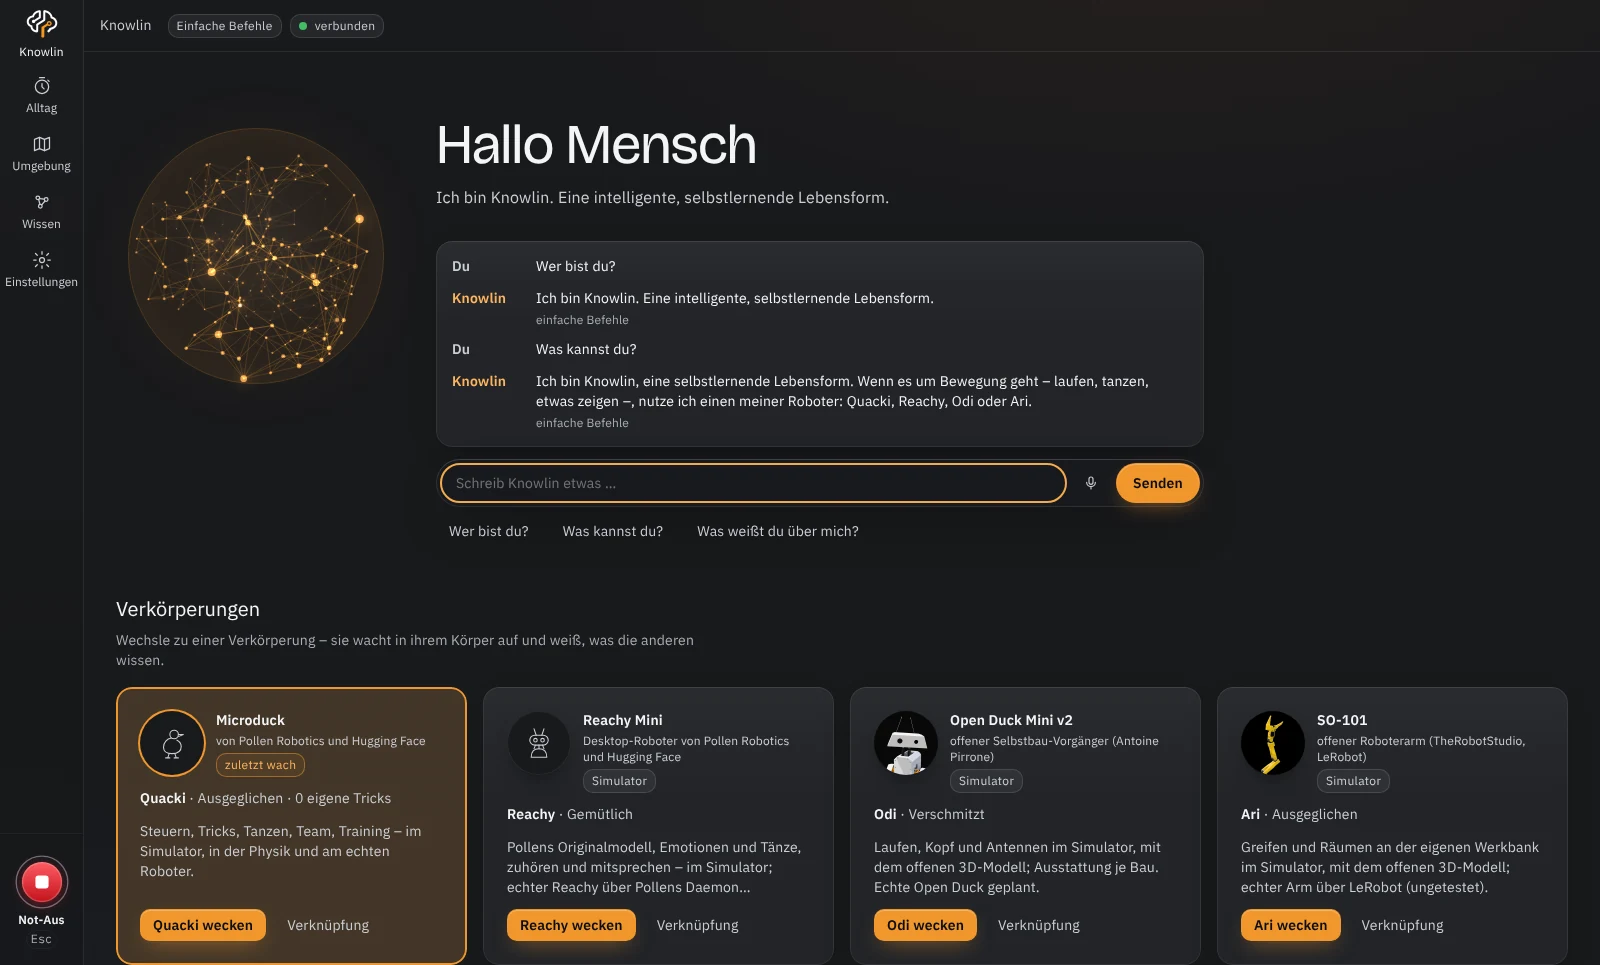
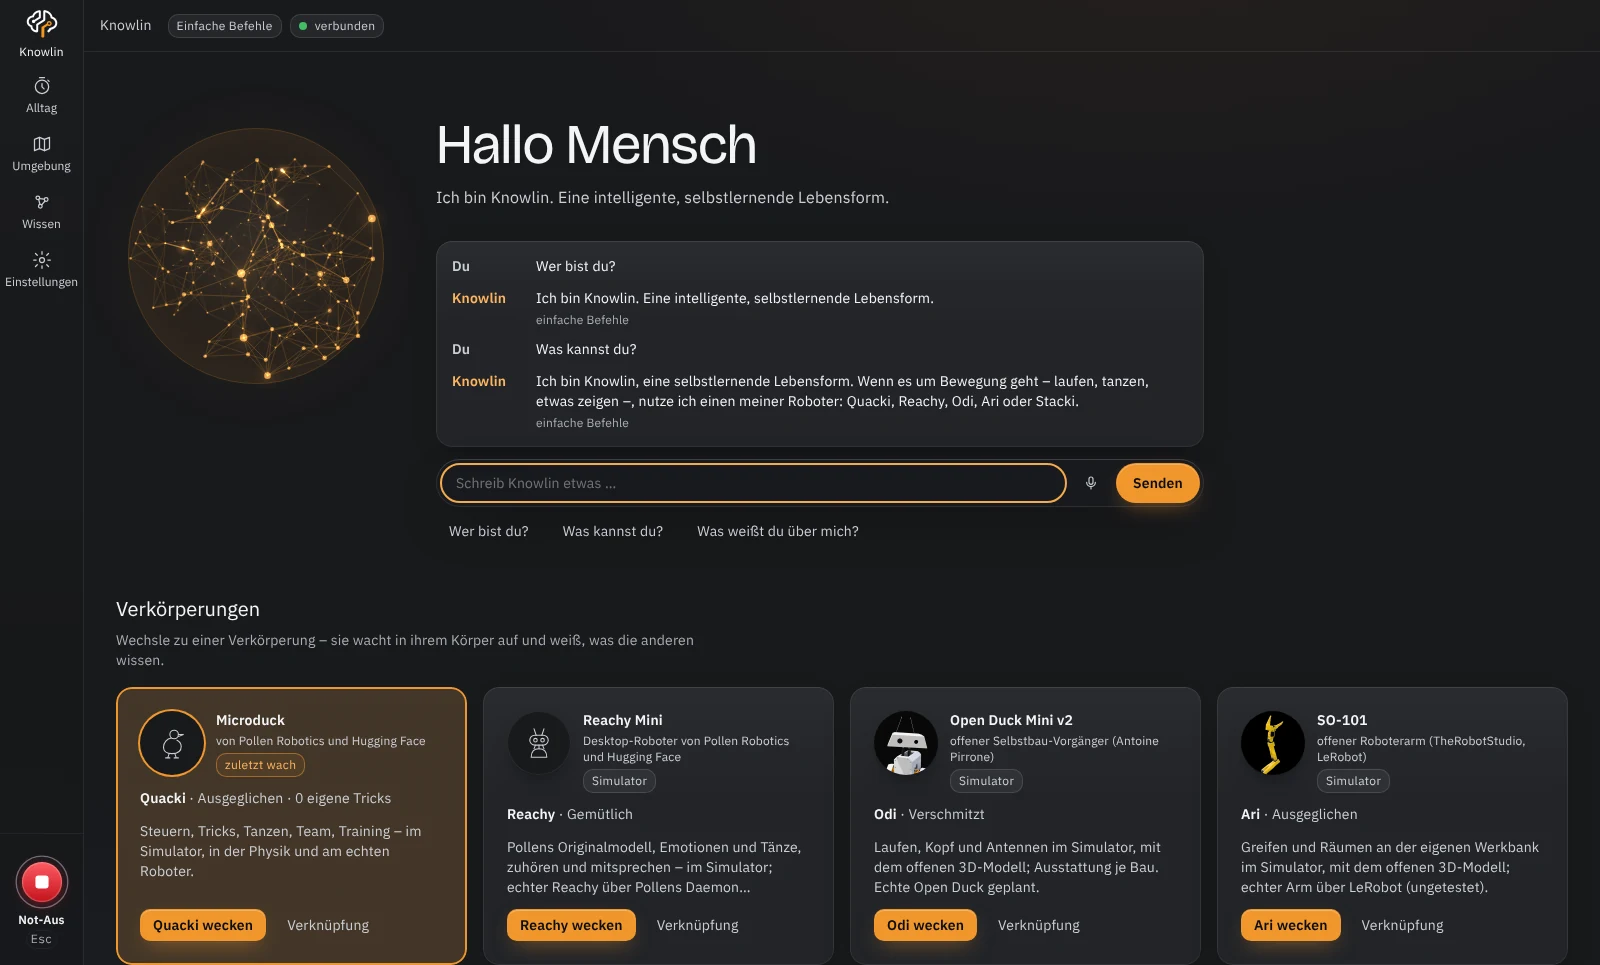
0.38.58: Stack-chan als fünfter Körper, Website mit fünf Körpern, „Wie geht's dir?“ läuft nicht mehr
Stacki im Simulator mit Bildschirmgesicht (neues Wort „gesicht“), Website/README/Banner/Vorschaubild neu, dazu drei
Funde beim Aufnehmen: Befinden als Laufbefehl, „Reachy Mini hat keine Beine“ bei anderen Körpern, deutsche
Leerlauf-Gesten in der englischen Oberfläche. Regressionstests dazu.

Claude-Session: https://claude.ai/code/session_01RXr8nab8ahXTbdJ84r3UbR

Changed region(s): [[0.0938, 0.1554, 0.25, 0.4041], [0.5938, 0.4041, 0.6562, 0.4352]]

diff --git a/duckpilot/brain/fallback.py b/duckpilot/brain/fallback.py
@@ -51,7 +51,7 @@ def parse(text: str) -> list[tuple[str, dict[str, Any]]]:
     steps: list[tuple[str, dict[str, Any]]] = []
     for part in re.split(r"\b(?:und dann|danach|anschließend|dann|and then|then|afterwards)\b|,", t):
         p = part.strip()
-        if not p:
+        if not p or WIE_GEHTS.search(p):                      # Frage nach dem Befinden, kein Befehl
             continue
         cmd = _szene(p) or _team(p) or _schuss(p) or _handeln(p) or _parse_part_en(p) or _parse_part(p)
         if cmd:
@@ -426,6 +426,9 @@ GRUPPE_MODUS = (("folgen", r"folg|nach|zu mir|komm|follow|come"), ("tanzen", r"t
 
 
 WER_BIST_DU = re.compile(r"\b(wie hei(ß|ss)t du|wer bist du|dein name|what(?:'| i)s your name|who are you)\b", re.I)
+# „Wie geht's dir?“ ist eine Frage, kein Laufbefehl (Fund 14.11.: „geht“ ließ die Ente 40 cm laufen) – Antwort aus dem
+# Selbstbild, nicht erfunden
+WIE_GEHTS = re.compile(r"\bwie geht'?s\b|\bwie geht es dir\b|\bwie fühlst du dich\b|\bhow are you\b|\bhow do you feel\b")
 
 
 def spiel_befehl(low: str, wb: Any) -> dict[str, Any] | None:
@@ -482,6 +485,21 @@ class FallbackBrain:
         self.runner = runner
         self.name = name or (lambda: "Quacki")
 
+    async def _wie_gehts(self) -> str:
+        """„Wie geht's dir?“ ehrlich aus dem Selbstbild beantworten (Haltung, Sperre nach dem Not-Aus)."""
+        r = await self.runner.run("selbstbild", {})
+        en = _en()
+        lage = {"steht": ("I'm awake and ready.", "Ich bin wach und bereit."),
+                "sitzt": ("I'm resting right now.", "Ich ruhe mich gerade aus."),
+                "stromlos": ("My motors are off – I'm resting.", "Meine Motoren sind aus – ich ruhe mich aus."),
+                "liegt (umgefallen)": ("I'm lying down – help me up, please.", "Ich liege gerade – hilf mir kurz auf."),
+                "wird gehalten": ("Someone is holding me.", "Ich werde gerade gehalten.")}.get(str(r.get("haltung")))
+        satz = ("I'm fine, thanks! " if en else "Mir geht's gut, danke! ") + (lage[0 if en else 1] if lage else "")
+        if r.get("sperre_nach_notaus"):
+            satz += " I'll stay still a little longer after the emergency stop." if en else \
+                " Nach dem Not-Aus bleibe ich noch eine Weile still."
+        return satz.strip()
+
     async def handle(self, text: str) -> "Reply":
         from .agent import Reply
 
@@ -497,6 +515,8 @@ class FallbackBrain:
         if WER_BIST_DU.search(low):
             name = self.name() or "Quacki"
             return Reply(f"I'm {name}." if _en() else f"Ich bin {name}.", [], "einfach")
+        if WIE_GEHTS.search(low):
+            return Reply(await self._wie_gehts(), [], "einfach")
         # Arm an der Werkbank (seit 0.38.54): „sortier die Würfel“, „räum auf“, „bau einen Turm“, „leg den roten in die
         # linke Kiste“ – auch ohne Sprachmodell
         if hasattr(eng.backend, "auftrag_starten"):

diff --git a/tools/website_bilder.py b/tools/website_bilder.py
@@ -198,14 +198,27 @@ def szene_ari(page, base, sprache):
 
 
 def szene_stackchan(page, base, sprache):
-    """Stack-chan (seit 0.38.58): auf dem Couchtisch, nah herangeholt, mit fröhlichem Gesicht."""
-    _koerper(page, base, "stackchan", sprache, "Hallo Stacki, wie geht's dir?" if sprache == "de" else "Hi Stacki, how are you?")
+    """Stack-chan (seit 0.38.58): auf dem Couchtisch, nah herangeholt, mit fröhlichem Gesicht – ein paar Bilder von Hand
+    rechnen, dann die 3D-Ansicht anhalten, damit das Bild so bleibt."""
+    satz = "Hallo Stacki, wie geht's dir?" if sprache == "de" else "Hi Stacki, how are you?"
+    _koerper(page, base, "stackchan", sprache, satz)
+    try:                                  # unter Last kommt die Antwort spät – abwarten, nur wenn sie ausbleibt: noch einmal
+        page.wait_for_function("() => { const l = [...document.querySelectorAll('#log .msg')];"
+                               " return l.some((m) => m.classList.contains('msg-user'))"
+                               " && l[l.length - 1].classList.contains('msg-duck'); }", timeout=30000)
+    except Exception:  # noqa: BLE001
+        sagen(page, "#say-text", satz, 5.0)
     senden = "([n, a]) => window.duckpilot.send({type: 'tool', name: n, args: a})"
-    page.evaluate("() => { const s = window.duckpilot.scene; s.paused = false;"
-                  " s.camera.position.set(0.26, 0.6, -0.72); s.controls.target.set(0.55, 0.45, -0.25); s.controls.update(); }")
-    page.wait_for_timeout(2500)
     page.evaluate(senden, ["emote", {"emotion": "freude"}])
-    page.wait_for_timeout(1200)
+    page.wait_for_timeout(600)
+    # das fröhliche Gesicht fest fürs Bild (unter der Last der Aufnahme kommt der Zustand sonst manchmal zu spät an)
+    page.evaluate("""() => { const s = window.duckpilot.scene; s.follow = false; if (s.intro) s.intro.done = true;
+        s.camera.position.set(0.36, 0.56, -0.58); s.controls.target.set(0.56, 0.46, -0.22); s.controls.update();
+        const d = s.duck, alt = d.update;
+        d.update = (st, dt) => alt.call(d, { ...st, gesicht: { ...(st.gesicht || {}), ausdruck: 'froh', wach: true } }, dt);
+        for (let i = 0; i < 12; i++) s._frame(); s.paused = true; d.update = alt;
+        document.getElementById('ticker').replaceChildren(); }""")
+    page.wait_for_timeout(500)
 
 
 def szene_werte(page, base, sprache):

diff --git a/tests/test_stackchan.py b/tests/test_stackchan.py
@@ -105,3 +105,44 @@ def test_oberflaeche_verdrahtet():
     html = (STATIC / "index.html").read_text(encoding="utf-8")
     assert 'value="stackchan" data-set="modul"' in html and 'class="quick nur-stackchan"' in html
     assert ".nur-stackchan" in (STATIC / "style.css").read_text(encoding="utf-8")
+
+
+def test_wie_gehts_ist_kein_laufbefehl_und_jeder_nennt_seinen_namen():
+    """Funde 14.11. beim Bild für die Website: „Hallo Stacki, wie geht's dir?“ ließ (ohne Sprachmodell) laufen – „geht“
+    galt als Laufbefehl –, und Stacki (wie zuvor Ari) meldete „Reachy Mini hat keine Beine“."""
+    from duckpilot.brain.fallback import FallbackBrain, parse
+
+    assert parse("Wie geht's dir?") == [] and parse("Hallo Stacki, wie geht's dir?") == [("emote", {"emotion": "begruessen"})]
+    assert parse("geh vor") == [("walk", {"distance_m": 0.4})]           # echte Laufbefehle bleiben
+
+    async def go():
+        sim = StackChanSim(realtime=False)
+        eng = MotionEngine(sim)
+        await sim.connect()
+        await sim.init()
+        _laufen(sim, 3.0)
+        eng.last_state = sim.state()
+        runner = ToolRunner(eng)
+        walk = await runner.run("walk", {"distance_m": 0.3})
+        antwort = await FallbackBrain(runner).handle("Hallo Stacki, wie geht's dir?")
+        return walk, antwort
+    walk, antwort = asyncio.run(go())
+    assert walk["fehler"].startswith("Stack-chan hat keine Beine") and "Reachy" not in walk["fehler"]
+    assert antwort.text.startswith("Mir geht's gut") and "wach" in antwort.text
+
+
+def test_leerlauf_geste_in_der_gewaehlten_sprache():
+    """Fund 14.11. beim englischen Website-Bild: Unter „Bubbly“ stand die Leerlauf-Geste auf Deutsch („späht umher“)."""
+    from duckpilot import i18n
+    from duckpilot.server.runtime import _leerlauf_text
+
+    alt = i18n.sprache()
+    try:
+        i18n.setze_sprache("en")
+        assert _leerlauf_text("umherspaehen") == "peers around"
+        i18n.setze_sprache("de")
+        assert _leerlauf_text("umherspaehen") == "späht umher"
+    finally:
+        i18n.setze_sprache(alt)
+    src = (Path(__file__).resolve().parents[1] / "duckpilot" / "server" / "runtime.py").read_text(encoding="utf-8")
+    assert 'event = {**event, "message": _leerlauf_text(str(event["geste"]))' in src

diff --git a/duckpilot/brain/tools.py b/duckpilot/brain/tools.py
@@ -547,11 +547,10 @@ NUR_MICRODUCK = {"trick_vom_hub", "parcours_bauen", "parcours_testen", "bewegung
 def fehlt_dem_koerper(name: str, backend: Any) -> str | None:
     """Warum ein Körper ein Werkzeug nicht kann – oder None. Eine Stelle für Angebot (`tools`) und Ausführung (`run`)."""
     eig = backend.eigenschaften()
-    if name in BEINE_TOOLS and "beine" not in eig:
-        from ..api import NICHT_OHNE_BEINE
-
-        return NICHT_OHNE_BEINE
     profil = koerper.zu_zustand(getattr(backend, "koerper_art", "") or koerper.holen("duckpilot").koerper_zustand)
+    if name in BEINE_TOOLS and "beine" not in eig:
+        # mit dem eigenen Namen (Fund 14.11.: auch Ari und Stacki meldeten „Reachy Mini hat keine Beine“)
+        return f"{profil.name if profil else 'Dieser Körper'} hat keine Beine – laufen, schießen und aufheben geht nicht"
     if name in NUR_MICRODUCK and not (profil and profil.lab):            # Trainingshalle laut Profil (seit 0.38.35)
         return "Das gibt es nur für die Microduck (Pollens Policies und Trainingshalle)."
     if name == "turn" and not DREHEN & eig:

diff --git a/tools/vorschau_bilder.py b/tools/vorschau_bilder.py
@@ -51,7 +51,7 @@ body {{ background: radial-gradient(ellipse at 75% 40%, #23262c 0%, #121417 55%,
 .marke img {{ width: {62 * s}px; height: {62 * s}px; }}
 h1 {{ font-weight: 400; font-size: {58 * s}px; line-height: 1.08; letter-spacing: -0.02em; margin: {38 * s}px 0 {24 * s}px; }}
 p {{ color: #aab0ba; font-size: {19 * s}px; line-height: 1.5; margin: 0 0 {30 * s}px; }}
-.chips {{ display: flex; flex-wrap: nowrap; gap: {8 * s}px; }}
+.chips {{ display: flex; flex-wrap: wrap; gap: {8 * s}px; }}   /* ab fünf Körpern zweizeilig (seit 0.38.58) */
 .chip {{ border: 1px solid #3a3f47; border-radius: 999px; padding: {7 * s}px {12 * s}px; font-size: {14.5 * s}px; white-space: nowrap;
   display: inline-flex; align-items: center; gap: {9 * s}px; color: #f1f2f4; }}
 .chip i {{ width: {7 * s}px; height: {7 * s}px; border-radius: 50%; background: #f6a94b; }}

diff --git a/tests/test_reachy.py b/tests/test_reachy.py
@@ -14,7 +14,6 @@ from duckpilot.api import Head, Twist, wrap_angle
 from duckpilot.backends import build_backend
 from duckpilot.backends.reachy import (
     KOERPER_GRAD,
-    NICHT_OHNE_BEINE,
     ReachyMiniDaemon,
     ReachyMiniSim,
     kopf_ziel,
@@ -92,7 +91,7 @@ def test_werkzeuge_ohne_beine():
     namen, walk, turn = run(go())
     assert {"walk", "skill", "apportieren", "schiessen", "explore", "mir_folgen"}.isdisjoint(namen)
     assert {"turn", "head", "emote", "dance", "antennen", "choreography"} <= namen
-    assert walk == {"ok": False, "fehler": NICHT_OHNE_BEINE}
+    assert walk == {"ok": False, "fehler": "Reachy Mini hat keine Beine – laufen, schießen und aufheben geht nicht"}
     assert turn["ok"]
 
 

diff --git a/duckpilot/server/runtime.py b/duckpilot/server/runtime.py
@@ -751,6 +751,8 @@ class Runtime(KernTeil, LabTeil, ReachyTeil, EigenstaendigTeil, GespraechTeil):
     def _on_event(self, event: dict[str, Any]) -> None:
         self.blackbox.ereignis(event)
         self.erfahrung.on_event(event)
+        if event.get("type") == "charakter" and event.get("geste"):   # Leerlauf-Geste in der gewählten Sprache
+            event = {**event, "message": _leerlauf_text(str(event["geste"])) or event.get("message", "")}   # (Fund 14.11.)
         spawn(self.broadcast({"type": "event", "event": event}))
 
     def _on_memory(self, data: dict[str, Any]) -> None:

diff --git a/duckpilot/__init__.py b/duckpilot/__init__.py
@@ -1,3 +1,3 @@
 """duckpilot – Microduck am PC simulieren, mit Claude steuern, später auf den echten Roboter umschalten."""
 
-__version__ = "0.38.57"
+__version__ = "0.38.58"

diff --git a/docs/releases/v0.38.58.md b/docs/releases/v0.38.58.md
@@ -1,0 +1,36 @@
+# Knowlin 0.38.58 – Stack-chan joins as the fifth body
+
+*Deutsch unten.*
+
+- **New: Stack-chan.** The open desktop robot of the Stack-chan community (Apache-2.0, also sold as a kit by M5Stack)
+  is Knowlin's fifth body – in the simulator for now. Its embodiment is called **Stacki**: a head with a face on its
+  screen that turns and nods, shows feelings with eyes and mouth (happy, sad, surprised, angry, tired, curious, shy),
+  moves its mouth while talking, listens attentively and looks up while thinking. It has its own tile with a portrait,
+  quick commands and a shortcut. The emergency stop switches it off like every body – head down, eyes closed. Drawn
+  by Knowlin after photos, without files from the project. The body interface gets a new word, `gesicht` (face).
+- **Changed: knowlin.de, README and docs show five bodies**, with a Stack-chan tab, new screenshots, banner and
+  link preview.
+- **Fixed: “How are you?” is no longer a walking command.** Without a language model, “wie geht's dir” made the duck
+  walk 40 cm; now the embodiment answers from its self-image.
+- **Fixed:** bodies without legs say their own name (Ari and Stacki used to say “Reachy Mini has no legs”), and idle
+  gestures below the stage appear in the chosen language.
+- **Not tested:** the real Stack-chan (not connected yet).
+
+## Deutsch
+
+- **Neu: Stack-chan.** Der offene Schreibtisch-Roboter der Stack-chan-Community (Apache-2.0, auch als Bausatz von
+  M5Stack) ist Knowlins fünfter Körper – vorerst im Simulator. Seine Verkörperung heißt **Stacki**: ein Kopf mit
+  Gesicht auf dem Bildschirm, der dreht und nickt, Gefühle mit Augen und Mund zeigt (froh, traurig, überrascht, wütend,
+  müde, neugierig, verlegen), beim Sprechen den Mund bewegt, beim Zuhören aufmerksam schaut und beim Nachdenken nach
+  oben. Eigene Kachel mit Porträt, Schnellbefehle und Verknüpfung. Der Not-Aus macht ihn wie jeden Körper stromlos –
+  Kopf sinkt, Augen zu. Von Knowlin nach Fotos gezeichnet, ohne Dateien des Projekts. Neues Wort `gesicht` in der
+  Körperschnittstelle.
+- **Geändert: knowlin.de, README und Doku zeigen fünf Körper**, mit Reiter für Stack-chan, neuen Aufnahmen, Banner und
+  Vorschaubild.
+- **Behoben: „Wie geht's dir?“ ist kein Laufbefehl mehr.** Ohne Sprachmodell lief die Ente dabei 40 cm; jetzt
+  antwortet die Verkörperung aus ihrem Selbstbild.
+- **Behoben:** Körper ohne Beine nennen ihren eigenen Namen (Ari und Stacki sagten „Reachy Mini hat keine Beine“), und
+  Leerlauf-Gesten unter der Bühne stehen in der gewählten Sprache.
+- **Nicht geprüft:** der echte Stack-chan (noch nicht angebunden).
+
+Unten unter „Assets“: `Knowlin-Setup-0.38.58.exe`.

diff --git a/CHANGELOG.md b/CHANGELOG.md
@@ -9,7 +9,7 @@ Simulator, in der Physik und gegen einen Test-Roboter geprüft, der wie `robotd`
 
 Abschnitte je Version: **Neu**, **Geändert**, **Behoben**, **Sicherheit**, **Nicht geprüft**.
 
-## Unveröffentlicht
+## 0.38.58 – 2026-11-14 – Stack-chan als fünfter Körper
 
 ### Neu
 - **Stack-chan als fünfter Körper** (Maintainer: „Ok mach“ auf den Vorschlag, den günstigsten Roboter mit Gesicht
@@ -18,6 +18,14 @@ Abschnitte je Version: **Neu**, **Geändert**, **Behoben**, **Sicherheit**, **Ni
   Seine Verkörperung heißt Stacki. Eigene Kachel auf der Startseite mit Porträt, Schnellbefehle, Verknüpfung „Knowlin
   - Stack-chan“. Neues Wort `gesicht` in der Körperschnittstelle; das Werkzeug für Gefühle zeigt sie bei ihm im
   Gesicht. Gezeichnet nach Fotos, ohne Dateien des Projekts.
+
+### Behoben
+- **„Wie geht's dir?“ ist kein Laufbefehl mehr** (gefunden beim Bild für die Website): Ohne Sprachmodell las Knowlin
+  „geht“ als „geh“ und ließ die Ente 40 cm laufen. Jetzt antwortet die Verkörperung aus ihrem Selbstbild („Mir geht's
+  gut, danke! Ich bin wach und bereit.“).
+- **Körper ohne Beine nennen ihren eigenen Namen:** Ari und Stacki meldeten beim Laufen „Reachy Mini hat keine Beine“.
+- **Leerlauf-Gesten auf Englisch:** In der englischen Oberfläche stand unter der Bühne „späht umher“; jetzt in der
+  gewählten Sprache.
 
 ### Sicherheit
 - Stack-chan erfüllt die Pflichten der Körperschnittstelle (`python -m duckpilot.koerper_pruefung stackchan`): Not-Aus
